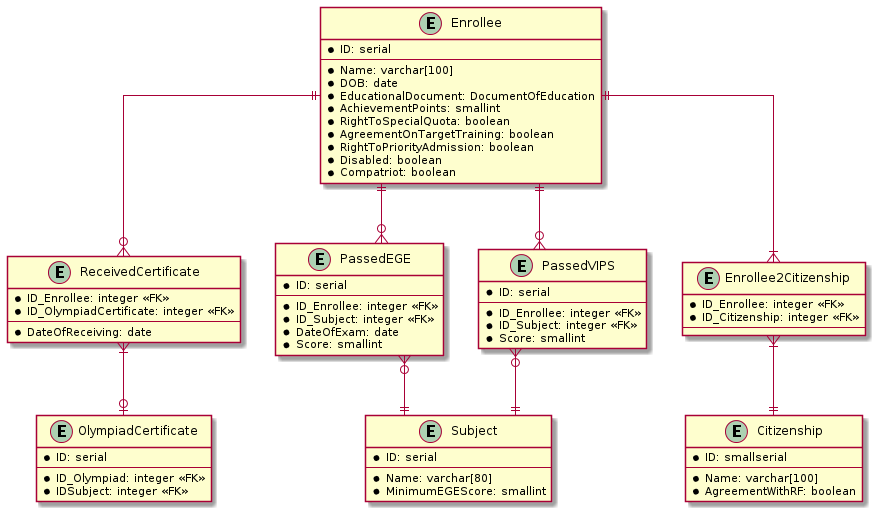
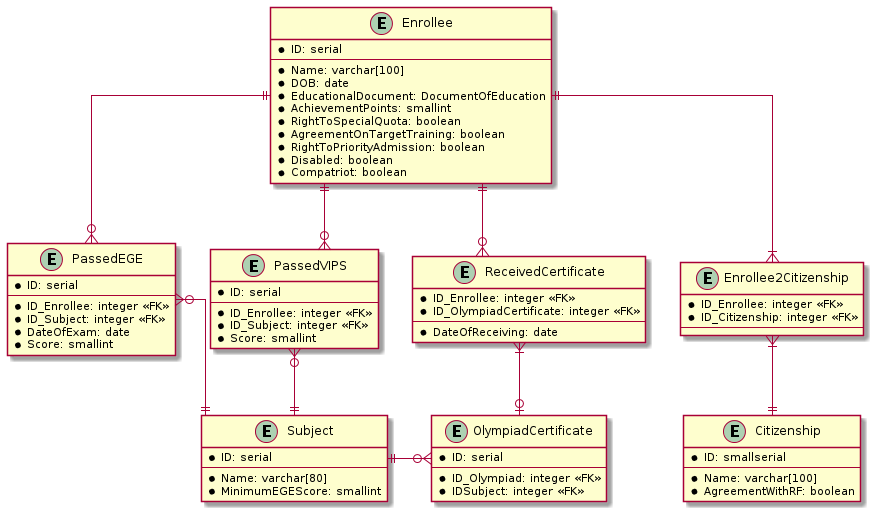
Сущности NumberOfPlaces и Price заменены на PaymentMethod2EducationalProgram с доп. атрибутом ID_Family. Сущность Faculty2EducationalProgram удалена как избыточная. Добавлен соответствующий CSV-файл. На реляционной схеме указаны кратности отношений между сущностями OlympiadCertificate и Subject. В с

diff --git a/ЛР2/gen_csv2.py b/ЛР2/gen_csv2.py
@@ -15,7 +15,7 @@ def gen_name():
 #Функция для генерации дат
 def gen_dob(m1,y1,m2,y2):
 	day=random.randint(1,28)
-	month=random.randint(m1,m1)
+	month=random.randint(m1,m2)
 	year=random.randint(y1,y2)
 	return str(day)+"."+str(month)+"."+str(year)
 	

diff --git a/README.md b/README.md
@@ -4,7 +4,7 @@
 
 Создание репозитория на GitHub является частью задания.
 ## Описание предметной области
-Работа приемной комиссии ВолгГТУ основана на ** "Правилах приема в федеральное государственное бюджетное образовательное учреждение высшего образования "Волгоградский государственный технический университет" на обучение по образовательным программам высшего образования - программам бакалавриата, программам специалитета, программам магистратуры на 2020/21 учебный год"** от 25.06.2020 (файл `PP.pdf` в каталоге `ЛР1_версия3`).
+Работа приемной комиссии ВолгГТУ основана на ** "Правилах приема в федеральное государственное бюджетное образовательное учреждение высшего образования "Волгоградский государственный технический университет" на обучение по образовательным программам высшего образования - программам бакалавриата, программам специалитета, программам магистратуры на 2020/21 учебный год" ** от 25.06.2020 (файл `PP.pdf` в каталоге `ЛР1_версия3`).
 
 Для понимания принципов приема в университет особое значение имеют п. 10, 11, 12, 14, 17 раздела 1 данного документа. 
 
